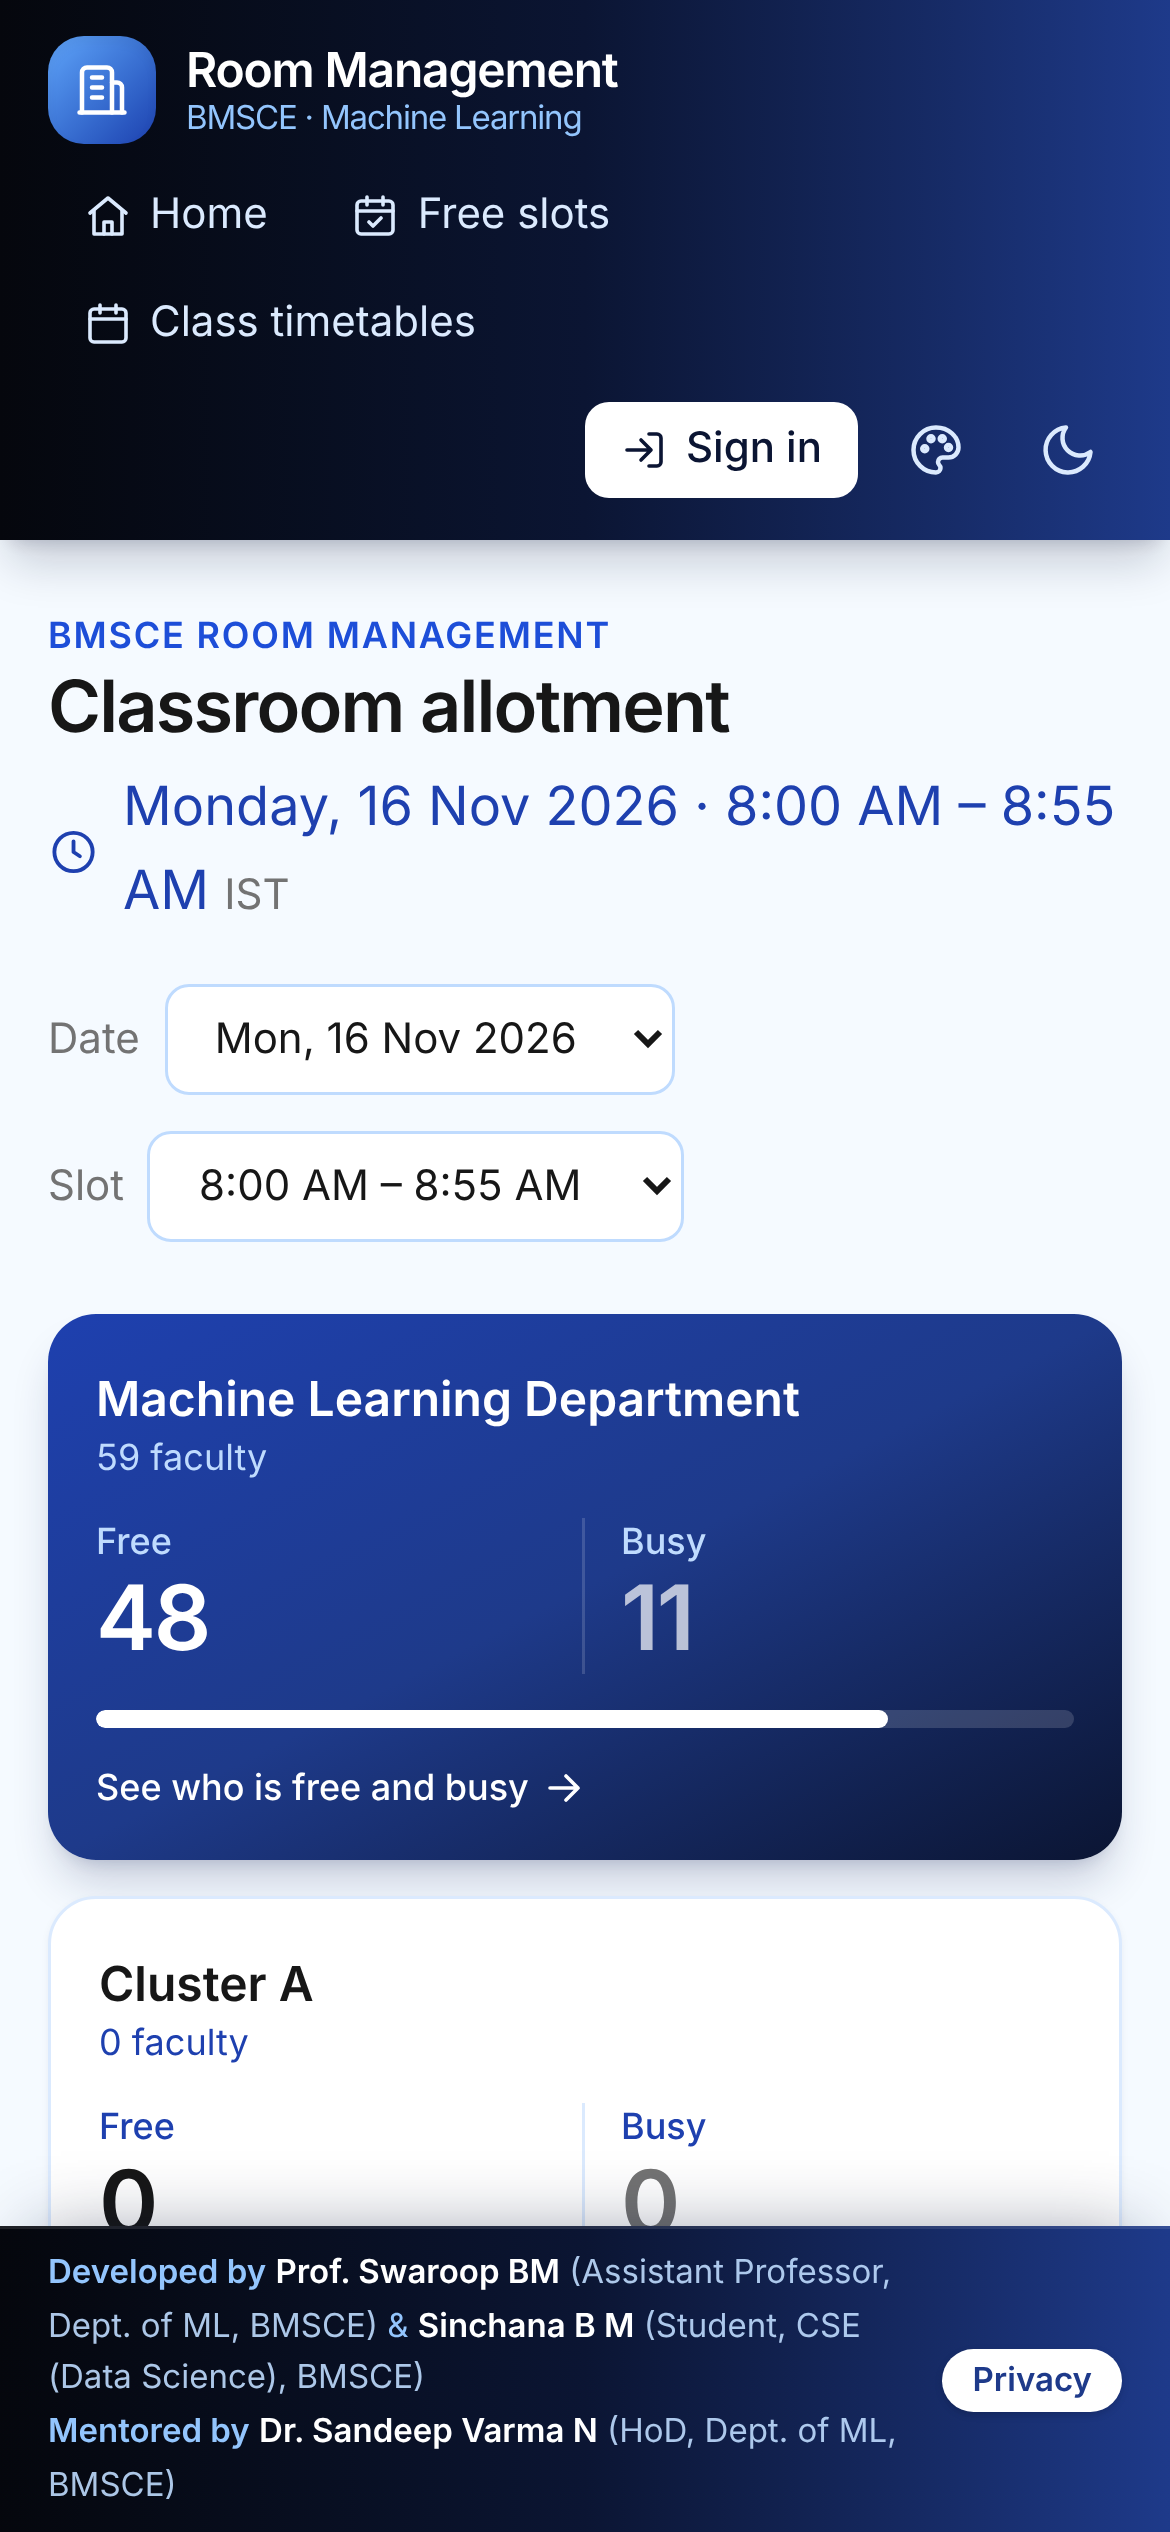
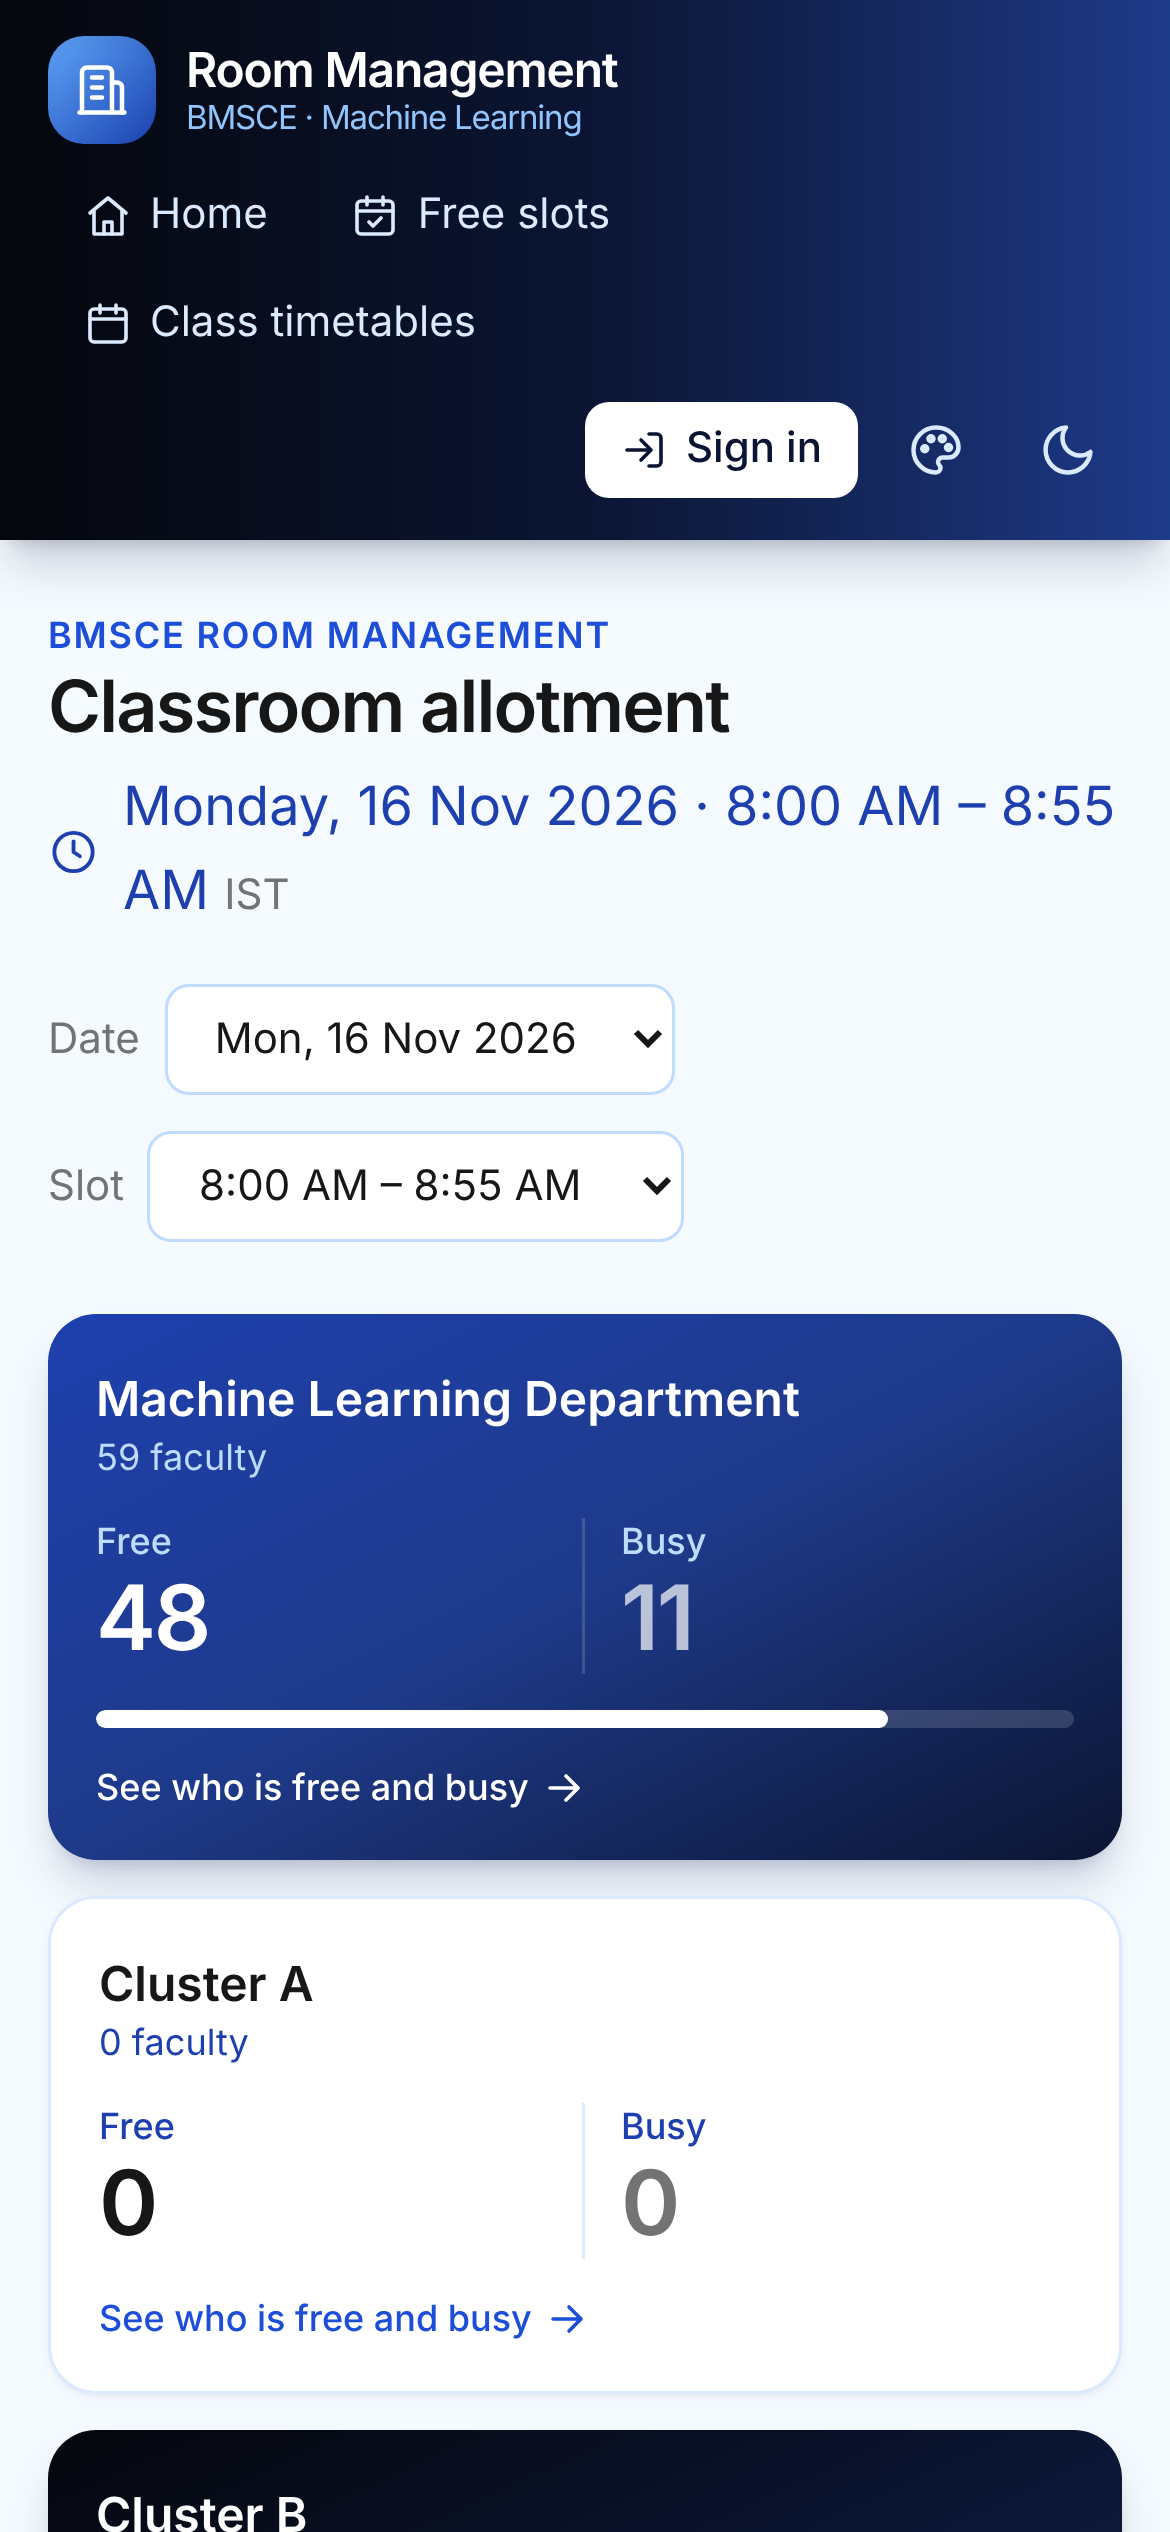
Footer: developers and mentor as KPI cards in one row
Three cards in the home page KPI tones (navy, light, ink) with each person's
role, and a Privacy button. Pinned on laptops and wider; on phones and tablets
the cards sit at the end of the page so they never cover it.

Claude-Session: https://claude.ai/code/session_01KMfFL3HfMPUZZtSeiqRqXe

Changed region(s): [[0.0, 0.8736, 1.0, 1.0]]

diff --git a/src/components/DeveloperCredit.tsx b/src/components/DeveloperCredit.tsx
@@ -1,71 +1,84 @@
 import Link from "next/link";
 
-type Credit = { name: string; role: string; href: string };
+type Tone = "navy" | "light" | "ink";
+type Credit = { label: string; name: string; initials: string; role: string; href: string; tone: Tone };
 
-const DEVELOPERS: Credit[] = [
+/** The developers and the mentor, each shown as a KPI-style card like the ones on the home page. */
+const CREDITS: Credit[] = [
   {
+    label: "Developed by",
     name: "Prof. Swaroop BM",
-    role: "Assistant Professor, Dept. of ML",
+    initials: "SB",
+    role: "Assistant Professor, Dept. of ML, BMSCE",
     href: "https://bmsce.ac.in/home/facultyProfile/590/Swaroop-BM",
+    tone: "navy",
   },
   {
+    label: "Developed by",
     name: "Sinchana B M",
-    role: "Student, CSE (Data Science)",
+    initials: "SM",
+    role: "Student, CSE (Data Science), BMSCE",
     href: "https://www.linkedin.com/in/sinchana-b-m-aa698a32b",
+    tone: "light",
+  },
+  {
+    label: "Mentored by",
+    name: "Dr. Sandeep Varma N",
+    initials: "SV",
+    role: "HoD, Dept. of ML, BMSCE",
+    href: "https://bmsce.ac.in/home/facultyProfile/156/Dr-Sandeep-Varma-N",
+    tone: "ink",
   },
 ];
 
-/** Acknowledged for mentoring the project. */
-const MENTOR: Credit = {
-  name: "Dr. Sandeep Varma N",
-  role: "HoD, Dept. of ML",
-  href: "https://bmsce.ac.in/home/facultyProfile/156/Dr-Sandeep-Varma-N",
+// Same tones as the home page KPI cards (FacultyCard, KpiCard)
+const TONES: Record<Tone, string> = {
+  navy: "bg-gradient-to-br from-brand-700 via-brand-800 to-brand-950 text-white shadow-md shadow-brand-900/20",
+  ink: "bg-gradient-to-br from-ink via-brand-950 to-brand-900 text-white shadow-md shadow-black/20 dark:border dark:border-brand-900",
+  light: "card",
 };
 
-const LABEL = "font-semibold text-brand-300";
-
-/** A name linking to the person's profile, with their role after it. */
-function Person({ c }: { c: Credit }) {
+function CreditCard({ c }: { c: Credit }) {
+  const dark = c.tone !== "light";
   return (
-    <span>
-      <a href={c.href} target="_blank" rel="noopener" className="font-semibold text-white underline-offset-2 hover:underline">
-        {c.name}
-      </a>
-      <span className="text-brand-200/90">
-        {" "}
-        ({c.role}
-        <span className="lg:hidden xl:inline">, BMSCE</span>)
+    <a
+      href={c.href}
+      target="_blank"
+      rel="noopener"
+      title={`${c.name}, ${c.role}`}
+      className={`flex min-w-0 items-center gap-3 rounded-2xl px-3 py-2 transition hover:-translate-y-0.5 hover:ring-2 hover:ring-brand-400 ${TONES[c.tone]}`}
+    >
+      <span
+        className={`grid h-9 w-9 shrink-0 place-items-center rounded-xl text-xs font-semibold ${
+          dark ? "bg-white/10 text-white" : "bg-brand-100 text-brand-700 dark:bg-brand-900/70 dark:text-brand-200"
+        }`}
+      >
+        {c.initials}
       </span>
-    </span>
+      <span className="min-w-0 leading-tight">
+        <span className={`block text-[10px] font-semibold tracking-wider uppercase ${dark ? "text-brand-200" : "text-brand-600 dark:text-brand-300"}`}>{c.label}</span>
+        <span className="block truncate text-sm font-semibold">{c.name}</span>
+        <span className={`block truncate text-[11px] ${dark ? "text-brand-200/90" : "muted"}`}>{c.role}</span>
+      </span>
+    </a>
   );
 }
 
 /**
- * The credits bar pinned to the bottom of every page: the developers with their roles, the
- * mentor, and a Privacy button, on one line on a laptop or wider (a phone or tablet wraps it).
+ * The credits at the bottom of every page: the developers and the mentor as KPI cards in one row,
+ * and a Privacy button. Pinned to the bottom of the screen on a laptop or wider; on a phone or
+ * tablet the cards stack at the end of the page instead, so they never cover it.
  */
 export default function DeveloperCredit() {
   return (
-    <footer className="sticky bottom-0 z-30 border-t border-white/10 bg-gradient-to-r from-ink via-brand-950 to-brand-800 text-white shadow-[0_-8px_24px_-12px_rgba(11,21,51,0.45)] print:hidden dark:border-brand-900/60 dark:from-black dark:via-black dark:to-brand-950">
-      <div className="mx-auto flex max-w-7xl items-center gap-3 px-4 py-1.5 text-[11px] sm:px-6 2xl:text-xs">
-        <div className="min-w-0 flex-1 leading-relaxed lg:overflow-x-auto lg:whitespace-nowrap lg:leading-normal lg:[scrollbar-width:none] lg:[&::-webkit-scrollbar]:hidden">
-          <span className={LABEL}>Developed by</span>{" "}
-          {DEVELOPERS.map((d, i) => (
-            <span key={d.name}>
-              {i > 0 && <span className="text-brand-300"> &amp; </span>}
-              <Person c={d} />
-            </span>
+    <footer className="z-30 border-t border-brand-100 bg-brand-50/90 backdrop-blur print:hidden lg:sticky lg:bottom-0 dark:border-brand-900 dark:bg-black/85">
+      <div className="mx-auto flex max-w-7xl flex-col gap-2 px-4 py-2 sm:px-6 lg:flex-row lg:items-center lg:gap-3">
+        <div className="grid min-w-0 flex-1 gap-2 sm:grid-cols-3 lg:gap-3">
+          {CREDITS.map((c) => (
+            <CreditCard key={c.name} c={c} />
           ))}
-          <span className="mx-2 hidden text-brand-400 lg:inline" aria-hidden>
-            |
-          </span>
-          <br className="lg:hidden" />
-          <span className={LABEL}>Mentored by</span> <Person c={MENTOR} />
         </div>
-        <Link
-          href="/privacy"
-          className="shrink-0 rounded-full bg-white px-2.5 py-0.5 font-semibold text-brand-800 shadow-sm transition hover:bg-brand-100 dark:bg-brand-400 dark:text-black dark:hover:bg-brand-300"
-        >
+        <Link href="/privacy" className="btn-primary shrink-0 justify-center self-end px-4 py-1.5 text-sm lg:self-center">
           Privacy
         </Link>
       </div>
